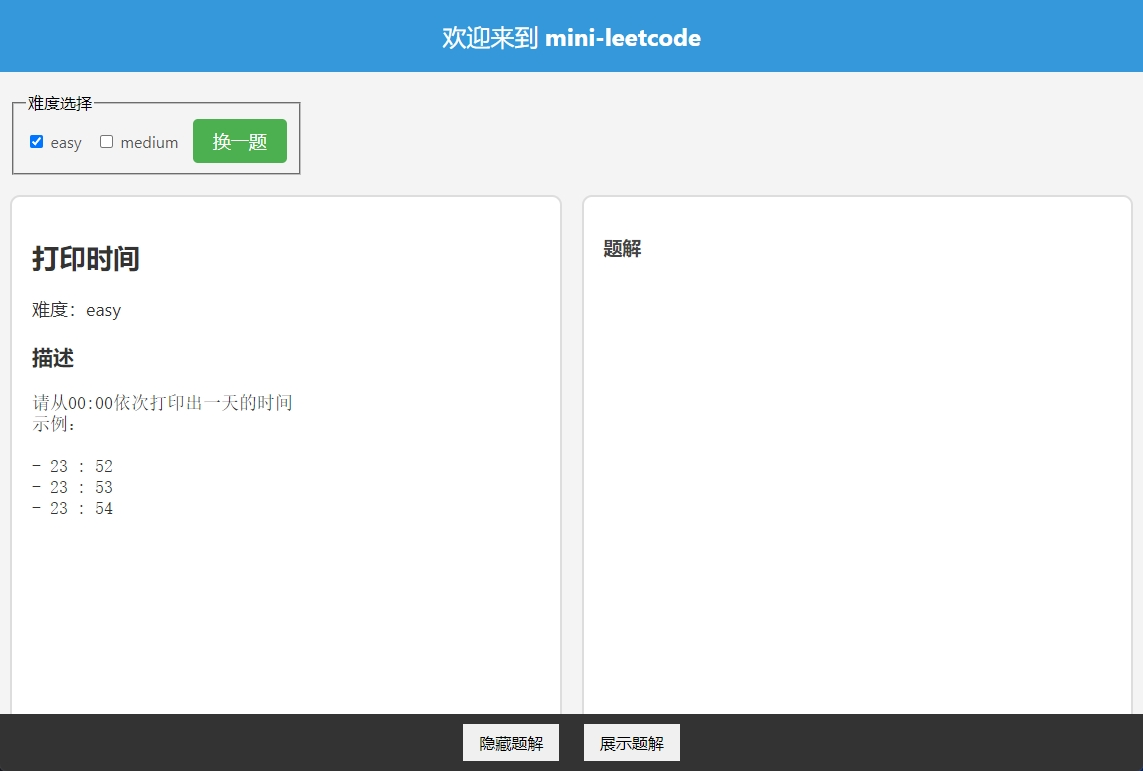
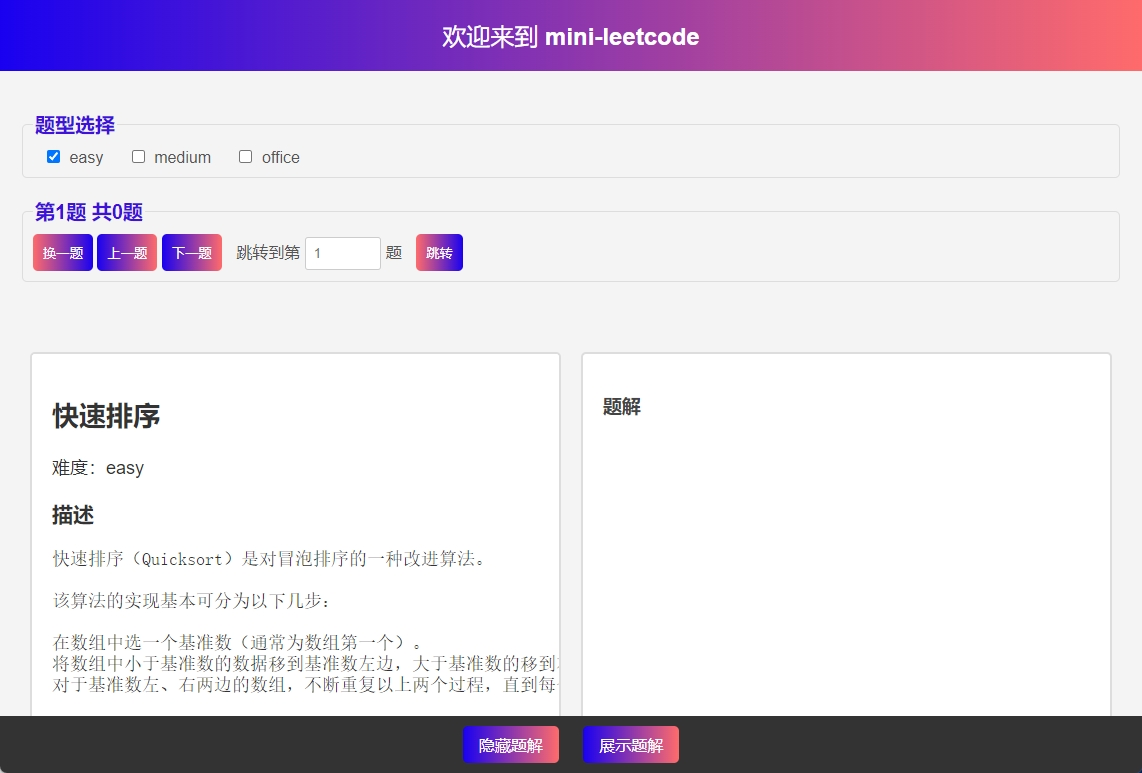
简单的调下样式

diff --git a/style.css b/style.css
@@ -1,9 +1,10 @@
 body {
+    font-family: 'Arial', sans-serif;
     background-color: #f4f4f4;
     margin: 0;
-    font-family: 'Segoe UI', Tahoma, Geneva, Verdana, sans-serif;
+    padding: 0;
+    box-sizing: border-box;
 }
-
 .hidden {
     display: none;
 }
@@ -13,15 +14,10 @@ body {
     min-height: 75vh;
 }
 
-.pre-container {
-    width: 100%;
-}
-
 .content {
     flex: 1;
     display: flex;
 }
-
 /* Webkit 内核浏览器的滚动条样式 */
 .left-div::-webkit-scrollbar,
 .right-div::-webkit-scrollbar {
@@ -46,7 +42,7 @@ body {
     margin: 10px;
     box-sizing: border-box;
     overflow: hidden;
-    border-radius: 10px;
+    border-radius: 5px;
     overflow-y: auto;
     overflow-x: auto;
     scrollbar-width: thin;
@@ -66,14 +62,14 @@ body {
     color: #444;
 }
 
+
 .welcome-message {
-    background-color: #3498db;
+    background: linear-gradient(to right, #1901f0, #FF6B6B);
     color: #fff;
     text-align: center;
     padding: 20px;
     font-size: 24px;
     margin-bottom: 20px;
-    border-radius: 0; /* 移除圆角 */
 }
 
 footer {
@@ -92,13 +88,19 @@ footer button {
     font-size: 16px;
     border: none;
     cursor: pointer;
+    background-color: #555;
+    color: #fff;
+    border-radius: 5px;
+    transition: background-color 0.3s;
 }
 
-/* Added styles for the checkbox */
+footer button:hover {
+    background-color: #333;
+}
+
 .options-container {
-    display: flex;
-    align-items: center;
-    margin: 10px;
+    padding: 20px;
+
 }
 
 .options-container label {
@@ -107,22 +109,29 @@ footer button {
     font-size: 16px;
 }
 
-#next-problem {
-    background-color: #4caf50;
+
+#change-problem,#jump-btn  {
+    background: linear-gradient(to right, #FF6B6B, #1901f0);
     color: #fff;
-    padding: 10px 20px;
-    font-size: 18px;
+    padding: 10px;
     border: none;
     border-radius: 5px;
     cursor: pointer;
 }
 
-/* Webkit 内核浏览器的滚动条样式 */
-::-webkit-scrollbar {
-    width: 0; /* 隐藏滚动条 */
+#content-container {
+    margin: 0 auto;
+    padding: 20px;
 }
 
-/* 可选：如果需要更改滚动条颜色 */
+
+
+/* Hide the scrollbar */
+::-webkit-scrollbar {
+    width: 0;
+}
+
+/* Optional: If you need to change scrollbar color */
 ::-webkit-scrollbar-thumb {
     background-color: transparent;
 }
@@ -130,3 +139,45 @@ footer button {
 ::-webkit-scrollbar-track {
     background-color: transparent;
 }
+
+/* Fieldset and legend styles */
+fieldset {
+    border: 1px solid #ddd;
+    padding: 10px;
+    border-radius: 5px;
+    margin-bottom: 20px;
+}
+legend {
+    color: #3E12DB;
+    font-size: 20px;
+    font-weight: bold;
+}
+
+label {
+    margin: 0 10px;
+    color: #555;
+    font-size: 18px;
+}
+
+button {
+    padding: 10px;
+    background: linear-gradient(to right, #1901f0, #FF6B6B);
+    color: #fff;
+    border: none;
+    border-radius: 5px;
+    cursor: pointer;
+    transition: background-color 0.3s;
+}
+
+button:hover {
+    background-color: #2980b9;
+}
+
+input[type="checkbox"],
+input[type="number"] {
+    margin-right: 5px;
+    padding: 8px;
+    border: 1px solid #ccc;
+    border-radius: 3px;
+}
+

diff --git a/index.html b/index.html
@@ -1,22 +1,25 @@
 <!DOCTYPE html>
 <html lang="en">
+
 <head>
     <meta charset="UTF-8">
     <meta name="viewport" content="width=device-width, initial-scale=1.0">
-    <link rel="stylesheet" href="style.css"> <!-- 导入 CSS 文件 -->
+    <link rel="stylesheet" href="style.css">
     <title>Random Content</title>
 </head>
+
 <body>
     <div class="welcome-message">欢迎来到 <span style="font-weight: bold;">mini-leetcode</span></div>
+
     <div class="options-container">
         <fieldset>
             <legend>题型选择</legend>
-            
+
             <label for="easy">
                 <input type="checkbox" id="easy" name="difficulty" value="easy" checked>
                 easy
             </label>
-            
+
             <label for="medium">
                 <input type="checkbox" id="medium" name="difficulty" value="medium">
                 medium
@@ -26,15 +29,33 @@
                 <input type="checkbox" id="office" name="difficulty" value="medium">
                 office
             </label>
-            <!-- 新增按钮 -->
-            <button id="next-problem">换一题</button>
+        </fieldset>
+
+        <fieldset>
+            <legend>
+                <span id="current-problem">第<span id="current-problem-number">1</span>题</span>
+                <span id="total-problems">共<span id="total-problems-number">0</span>题</span>
+            </legend>
+            
+            <button id="change-problem">换一题</button>
+            <button id="prev-problem">上一题</button>
+            <button id="next-problem">下一题</button>
+
+            <label for="jump-to-problem">跳转到第
+                <input type="number" id="jump-to-problem" min="1" max="99" placeholder="1">题
+            </label>
+            <button id="jump-btn">跳转</button>
         </fieldset>
     </div>
+
     <div id="content-container"></div>
+
     <footer>
         <button id="hide-solution">隐藏题解</button>
         <button id="show-solution">展示题解</button>
     </footer>
-<script src="script.js"></script>
+
+    <script src="script.js"></script>
 </body>
+
 </html>

diff --git a/script.js b/script.js
@@ -10,14 +10,20 @@ const officeCheckbox = getElement("office");
 const contentContainer = getElement("content-container");
 const hideSolutionBtn = getElement("hide-solution");
 const showSolutionBtn = getElement("show-solution");
-const nextProblemBtn = getElement("next-problem");
+const changeProblemBtn = getElement("change-problem");
+const prevProblemBtn = getElement("prev-problem"); // Add this line
+const nextProblemBtn = getElement("next-problem"); // Add this line
+
+let currentProblemIndex = 0; // Add this line
 
 // 隐藏和展示按钮的事件监听器
 hideSolutionBtn.addEventListener("click", toggleSolutionVisibility);
 showSolutionBtn.addEventListener("click", toggleSolutionVisibility);
 
 // 再来一题按钮的点击事件监听器
-nextProblemBtn.addEventListener("click", loadNextProblem);
+changeProblemBtn.addEventListener("click", loadChangeProblem);
+prevProblemBtn.addEventListener("click", loadPrevProblem); // Add this line
+nextProblemBtn.addEventListener("click", loadNextProblem); // Add this line
 
 // 初始化页面
 fetchDataAndHandle();
@@ -75,9 +81,21 @@ function getRandomProblem(data) {
         : data[Math.floor(Math.random() * data.length)];
 }
 
+// 加载随机问题
+function loadChangeProblem() {
+    fetchDataAndHandle();
+}
+
+// 加载上一个问题
+function loadPrevProblem() {
+    currentProblemIndex = (currentProblemIndex - 1 + data.length) % data.length;
+    updatePageWithRandomData(data[currentProblemIndex]);
+}
+
 // 加载下一个问题
 function loadNextProblem() {
-    fetchDataAndHandle();
+    currentProblemIndex = (currentProblemIndex + 1) % data.length;
+    updatePageWithRandomData(data[currentProblemIndex]);
 }
 
 // 使用 Fetch API 动态加载 JSON 文件并处理数据

diff --git a/README.md b/README.md
@@ -6,12 +6,18 @@
 
 ![showcase](./showcase/showcase.png)
 
+## 优势
+
+- 开箱即用，无需服务器、无需数据库，只需一个静态网站空间即可部署。
+
+- 结构简单，易于修改，易于自定义题目。
+
 ## 路线图
 
 - [√] 增加Head和Foot
 - [√] 左右独立窗口
 - [√] 题目难度筛选器
-- [x] 上一题下一题
+- [√] 上一题下一题
 - [x] 题解多代码解法可选
 
 ## 作者
